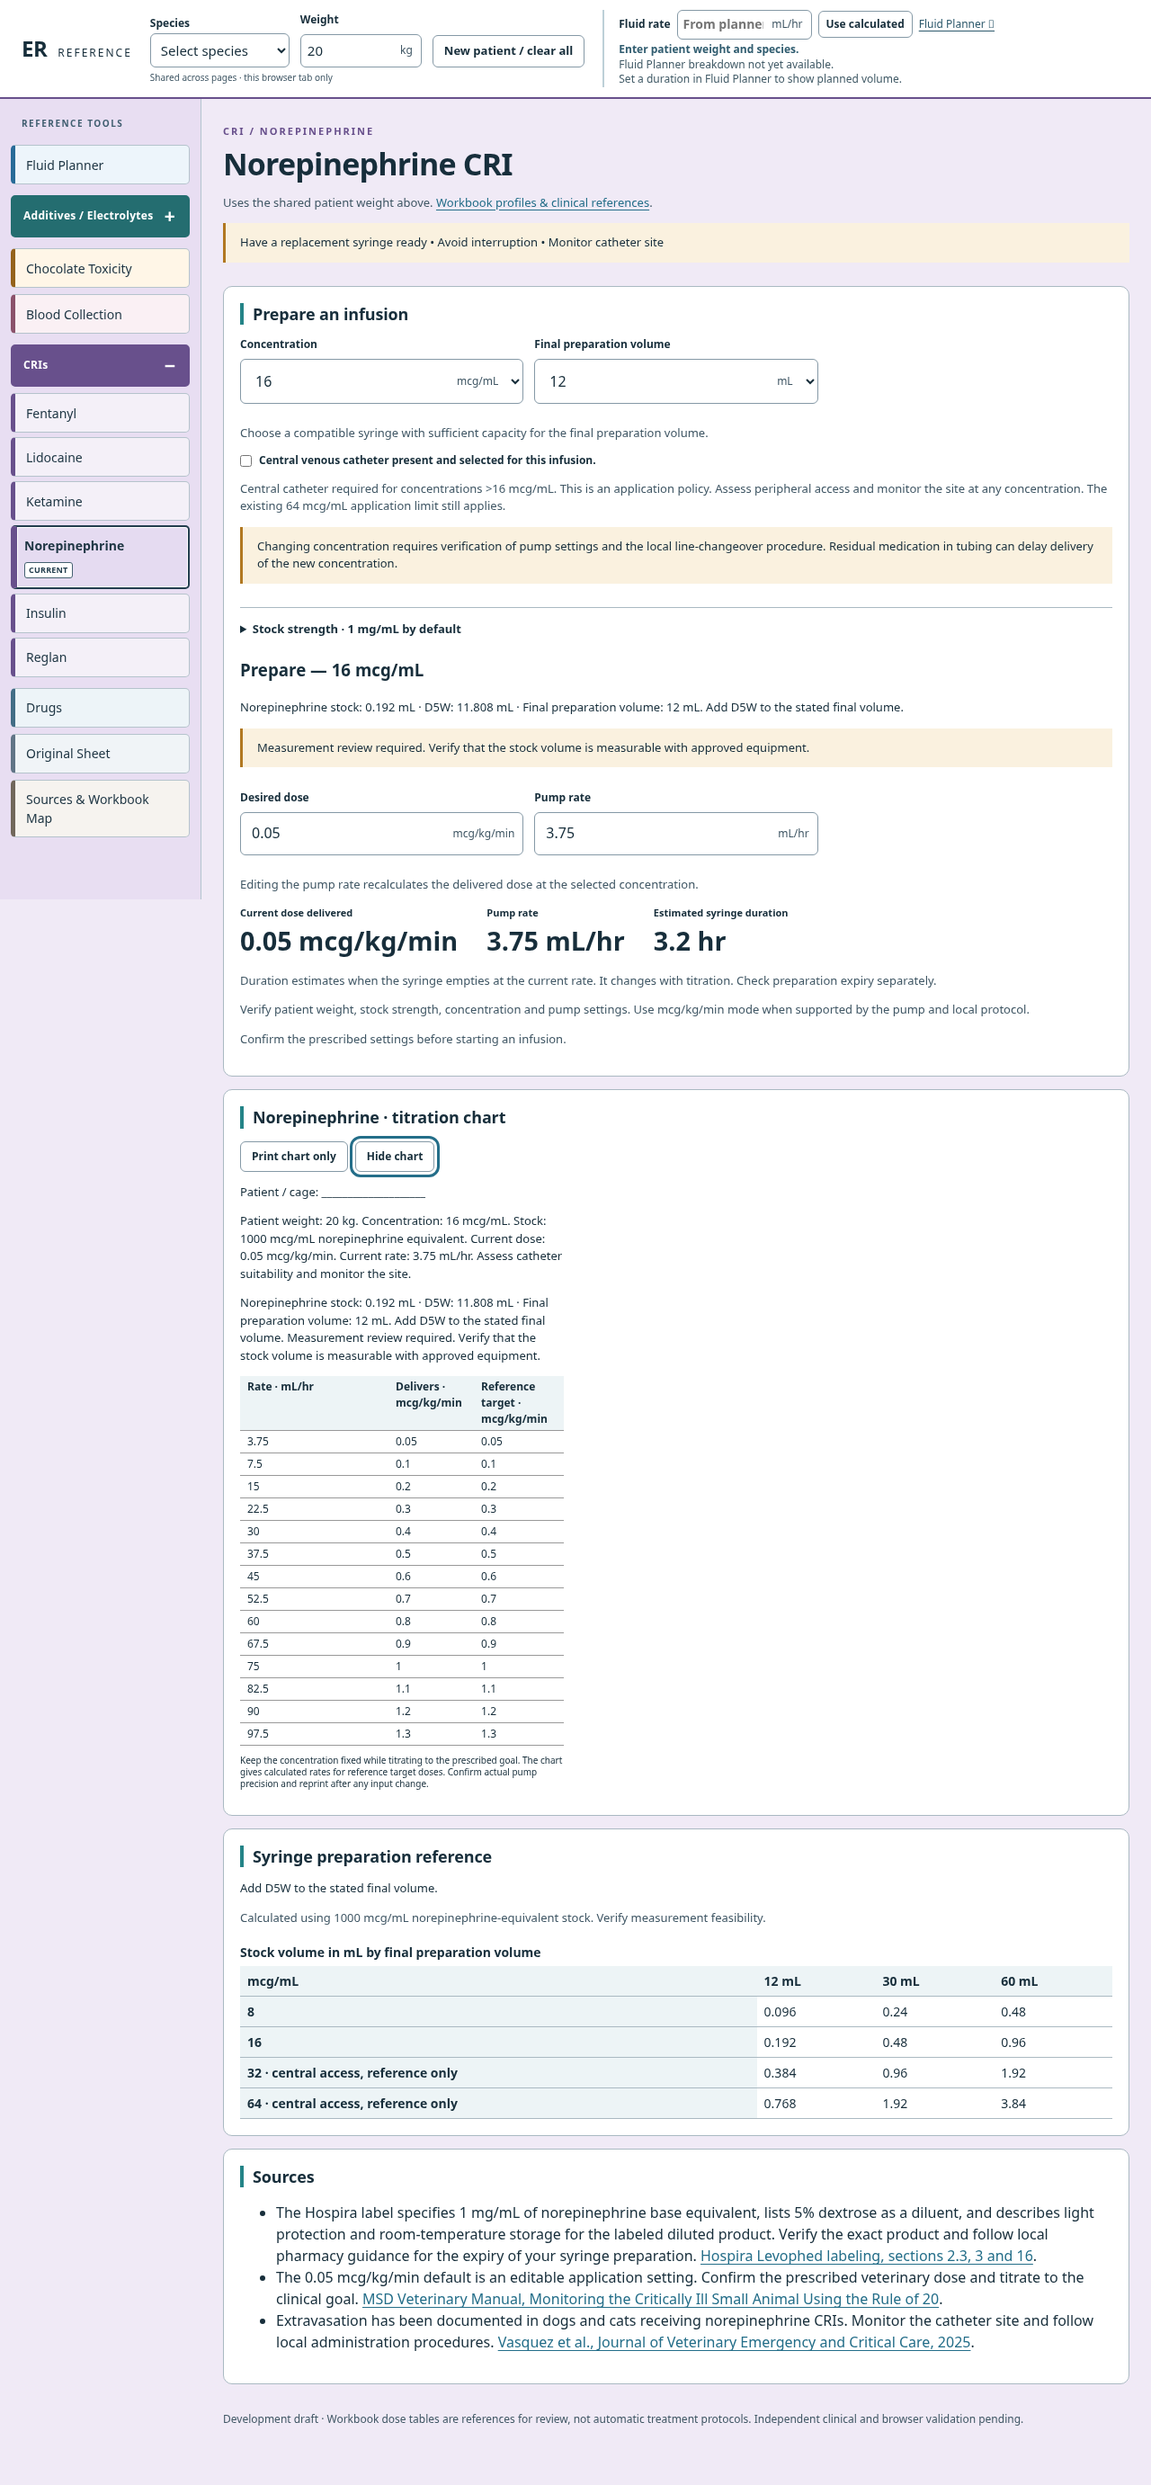
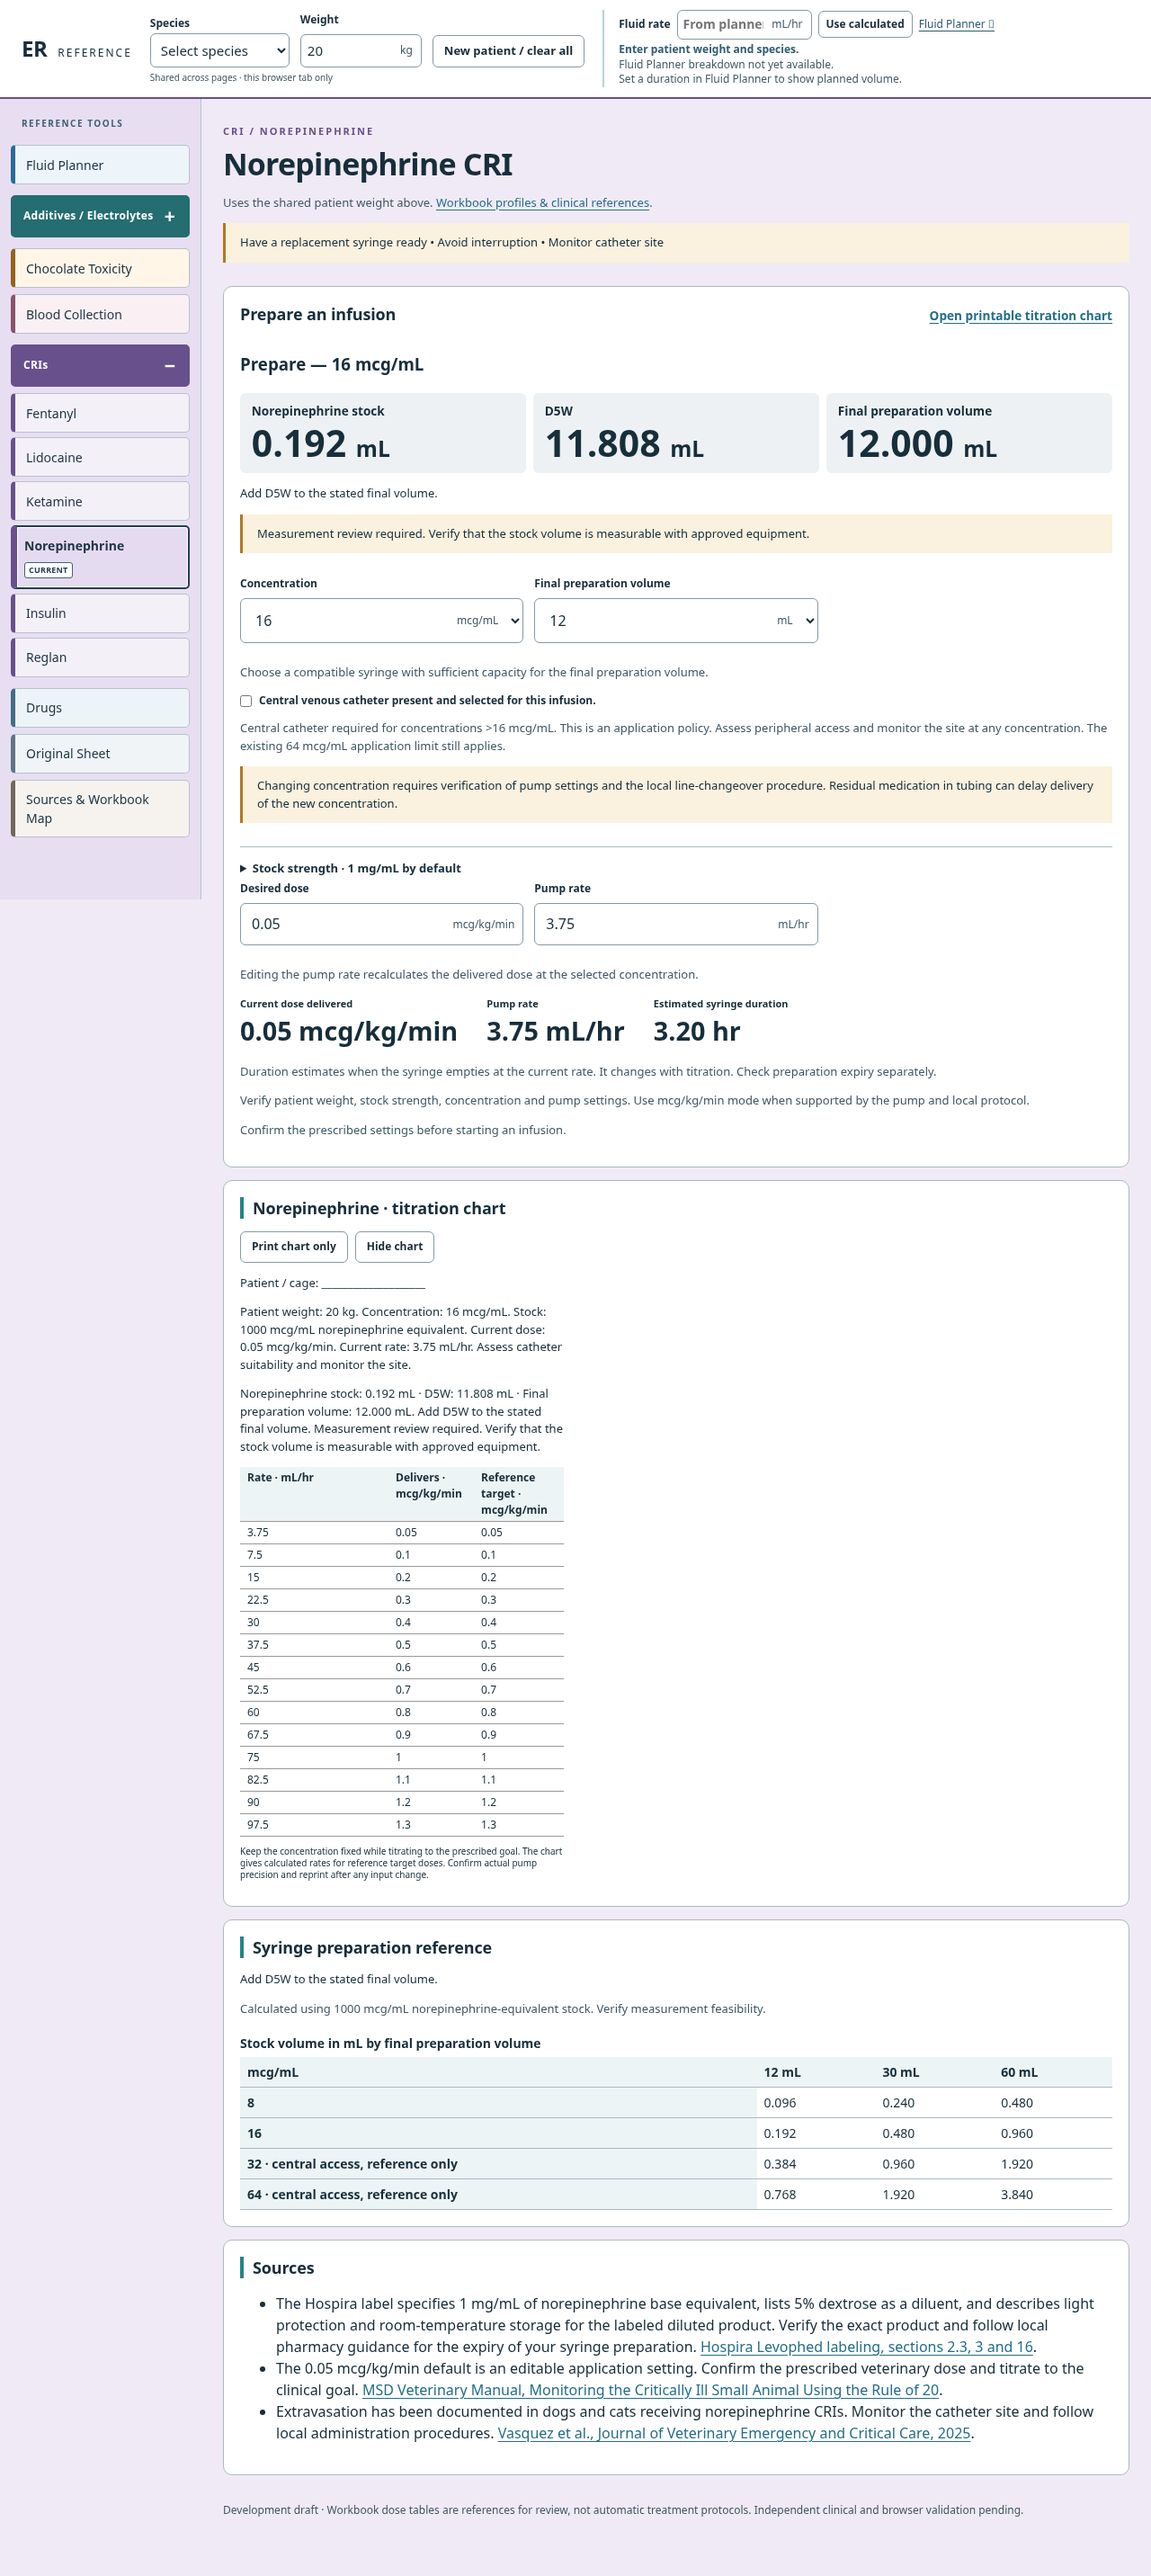
Make norepinephrine preparation amounts easier to scan

Changed region(s): [[0.0, 0.0, 0.9688, 0.9649], [0.5312, 0.0, 0.7812, 0.0311], [0.8438, 0.0934, 0.875, 0.1245]]

diff --git a/dist/norepi-preparation.js b/dist/norepi-preparation.js
@@ -13,6 +13,7 @@
   const centralMessage = 'Central catheter required for concentrations >16 mcg/mL.';
   const unit = 'mcg/kg/min';
   const show = value => Number(value.toPrecision(12)).toString();
+  const amount = value => value < 0.0005 ? value.toExponential(3) : value.toFixed(3);
   const positive = value => Number.isFinite(value) && value > 0;
   let centralConfirmed = false;
   let manualPump = false;
@@ -23,13 +24,15 @@
     if (concentration >= stock) throw Error('Prepared concentration must be below the verified stock strength.');
     const { drug, diluent } = CriCalc.mix(stock, concentration, volume);
     CriCalc.positive(drug, diluent);
-    // Keep rounding from increasing the stock fraction when users make up to final volume.
-    const displayedDrug = Number(show(drug));
-    const stockVolume = displayedDrug > drug
-      ? show(displayedDrug - 10 ** (Math.floor(Math.log10(displayedDrug)) - 11))
-      : show(drug);
-    CriCalc.positive(Number(stockVolume));
-    return { stockVolume, diluent: show(diluent), review: drug < 1 || stockVolume !== String(drug) };
+    const roundedStock = amount(drug);
+    // Preserve the access ceiling even when a three-place display would exceed it.
+    const limit = concentration <= peripheryLimit ? peripheryLimit : maximum;
+    const roundedAboveLimit = Number(roundedStock) * stock / volume > limit * (1 + Number.EPSILON * 4);
+    const roundingChangesAmount = Math.abs(Number(roundedStock) / drug - 1) > 0.01;
+    const extraPrecision = roundedAboveLimit || roundingChangesAmount;
+    const stockVolume = extraPrecision ? show(drug) : roundedStock;
+    return { stockVolume, diluent: amount(diluent), finalVolume: amount(volume),
+      review: drug < 1 || extraPrecision || Number(stockVolume) !== drug };
   }
 
   function reference(stock, central) {
@@ -56,6 +59,7 @@
     $('norepiTitration').setAttribute('data-print-ready', String(available));
     $('printNorepiChart').disabled = !available;
     $('previewNorepiChart').disabled = !available;
+    $('norepiChartShortcut').textContent = available ? 'Open printable titration chart' : 'Titration chart availability';
     $('norepiChartStatus').hidden = available;
     if (!available) {
       $('norepiChartMeta').textContent = '';
@@ -104,10 +108,14 @@
       if (!positive(stock)) throw Error('Enter a positive verified stock strength.');
       if (!positive(volume)) throw Error('Enter a positive final preparation volume.');
       const mix = preparation(stock, concentration, volume);
-      const instructions = `Norepinephrine stock: ${mix.stockVolume} mL · D5W: ${mix.diluent} mL · Final preparation volume: ${volume} mL.`;
+      const instructions = `Norepinephrine stock: ${mix.stockVolume} mL · D5W: ${mix.diluent} mL · Final preparation volume: ${mix.finalVolume} mL.`;
       const measurement = mix.review ? 'Measurement review required. Verify that the stock volume is measurable with approved equipment.' : '';
       $('prepResult').innerHTML = `<h3>Prepare — ${concentration} mcg/mL</h3>
-        <p>${instructions} Add D5W to the stated final volume.</p>${measurement ? `<p class="notice">${measurement}</p>` : ''}`;
+        <dl class="norepi-amounts">
+          <div><dt>Norepinephrine stock</dt><dd>${mix.stockVolume} <span>mL</span></dd></div>
+          <div><dt>D5W</dt><dd>${mix.diluent} <span>mL</span></dd></div>
+          <div><dt>Final preparation volume</dt><dd>${mix.finalVolume} <span>mL</span></dd></div>
+        </dl><p>Add D5W to the stated final volume.</p>${measurement ? `<p class="notice">${measurement}</p>` : ''}`;
 
       const weight = Number($('weight').value);
       if (!positive(weight)) throw Error('Enter a valid shared patient weight to calculate a pump rate.');
@@ -120,7 +128,9 @@
       const delivered = pump * concentration / 60 / weight;
       const hours = volume / pump;
       CriCalc.positive(delivered, hours);
-      const duration = hours >= 1 ? `${show(hours)} hr` : `${show(hours * 60)} min`;
+      const minutes = hours * 60;
+      const duration = hours >= 1 ? `${hours.toFixed(2)} hr`
+        : minutes < 0.005 ? '&lt;0.01 min' : `${minutes.toFixed(2)} min`;
       const access = concentration > peripheryLimit
         ? 'Central catheter required and confirmed.' : 'Assess catheter suitability and monitor the site.';
       const doses = [...new Set([...CRI_DATA.norepinephrine.rates, desiredDose])].sort((a, b) => a - b);
@@ -186,6 +196,9 @@
     stockField.readOnly = !stockField.readOnly;
     $('criLock').textContent = stockField.readOnly ? 'Edit stock strength' : 'Lock stock strength';
     if (!stockField.readOnly) stockField.focus();
+  };
+  $('norepiChartShortcut').onclick = () => {
+    if (!$('previewNorepiChart').disabled) setPreview(true);
   };
   $('previewNorepiChart').onclick = () => setPreview($('norepiChartPreview').hidden);
   $('printNorepiChart').onclick = () => {

diff --git a/dist/cri-norepinephrine.html b/dist/cri-norepinephrine.html
@@ -1,6 +1,10 @@
 <!doctype html><html lang="en"><head><meta charset="utf-8"><meta name="viewport" content="width=device-width,initial-scale=1"><title>Norepinephrine CRI · ER Reference</title><link rel="stylesheet" href="style.css"></head><body class="potassium-page" data-cri="norepinephrine"><header class="patient-header"><a class="brand" href="index.html">ER<span>REFERENCE</span></a><div class="master-patient" role="group" aria-label="Shared patient"><label>Species<select id="masterSpecies"><option value="">Select species</option><option value="dog">Dog</option><option value="cat">Cat</option></select></label><label>Weight · kg<input id="masterWeight" type="number" inputmode="decimal" min="0.001" step="any" placeholder="Patient kg"></label><button type="button" id="clearPatient">New patient / clear all</button><small id="patientSessionNote">Shared patient · this browser tab only</small></div><section class="shared-fluid" aria-label="Shared fluid plan"><div class="shared-fluid-top"><label for="sharedFluidRate">Fluid rate <span>mL/hr</span></label><input id="sharedFluidRate" type="number" min=".001" step="any" placeholder="From planner / enter rate" aria-describedby="sharedFluidStatus"><button type="button" id="useCalculatedFluid">Use calculated</button><a href="index.html">Fluid Planner ↗</a></div><div id="sharedFluidStatus" class="shared-fluid-status" role="status"></div><div id="sharedFluidBreakdown" class="shared-fluid-breakdown"></div><div id="sharedFluidAmounts" class="shared-fluid-amounts"></div></section></header><a class="skip-link" href="#main-content">Skip to content</a><aside class="sidebar" aria-label="Reference navigation"><details id="sectionMenu" open><summary>Sections <span>— Norepinephrine CRI</span></summary><div class="sidebar-title">REFERENCE TOOLS</div><nav aria-label="Reference sections"><a href="index.html">Fluid Planner</a><details class="nav-group"><summary>Additives / Electrolytes</summary><div class="nav-children"><a href="potassium.html">Potassium</a><a href="magnesium.html">Magnesium</a><a href="phosphate.html">Phosphate</a><a href="sodium.html">Sodium</a><a href="dextrose.html">Dextrose</a></div></details><a href="chocolate.html">Chocolate Toxicity</a><a href="blood-collection.html">Blood Collection</a><details class="nav-group cri-nav" open><summary>CRIs</summary><div class="nav-children"><a href="cri-fentanyl.html">Fentanyl</a><a href="cri-lidocaine.html"><span class="lidocaine-nav-label">Lidocaine</span><span class="cat-restriction" hidden>Unavailable for cats</span></a><a href="cri-ketamine.html">Ketamine</a><a href="cri-norepinephrine.html" aria-current="page">Norepinephrine<span class="current-page">Current</span></a><a href="cri-insulin.html">Insulin</a><a href="cri-reglan.html">Reglan</a></div></details><a href="drugs.html">Drugs</a><a href="original-sheet.html">Original Sheet</a><a href="sources.html">Sources & Workbook Map</a></nav></details></aside><main id="main-content" class="cri-page"><div class="eyebrow">CRI / NOREPINEPHRINE</div><h1>Norepinephrine CRI</h1><div hidden><input id="weight" type="number"><select id="species"><option value=""></option><option>Dog</option><option>Cat</option></select></div><p class="help">Uses the shared patient weight above. <a href="sources.html#cri-source">Workbook profiles & clinical references</a>.</p><p class="notice">Have a replacement syringe ready • Avoid interruption • Monitor catheter site</p>
 <section class="panel" id="norepiPreparation">
+<div class="norepi-prepare-heading">
 <h2>Prepare an infusion</h2>
+<a id="norepiChartShortcut" href="#norepiTitration">Titration chart availability</a>
+</div>
+<div id="prepResult" aria-live="polite"></div>
 <div class="cri-controls">
 <label>Concentration · mcg/mL
 <select id="norepiConcentrationPreset" aria-describedby="norepiAccessHelp">
@@ -23,7 +27,6 @@
 <p class="help">Verify the vial label. Enter norepinephrine equivalent strength in mcg/mL.</p>
 <label>Stock · mcg/mL norepinephrine equivalent <input id="criStock" type="number" min="0" step="any" value="1000" readonly autocomplete="off"></label>
 <button type="button" id="criLock">Edit stock strength</button></details>
-<div id="prepResult" aria-live="polite"></div>
 <div class="cri-controls">
 <label>Desired dose · mcg/kg/min <input id="criDose" type="number" min="0" step="any" value="0.05"></label>
 <label>Pump rate · mL/hr <input id="norepiPump" type="number" min="0" step="any" disabled autocomplete="off" aria-describedby="norepiPumpHelp"></label>

diff --git a/scripts/norepi-preparation.html b/scripts/norepi-preparation.html
@@ -1,6 +1,10 @@
 <p class="notice">Have a replacement syringe ready • Avoid interruption • Monitor catheter site</p>
 <section class="panel" id="norepiPreparation">
+<div class="norepi-prepare-heading">
 <h2>Prepare an infusion</h2>
+<a id="norepiChartShortcut" href="#norepiTitration">Titration chart availability</a>
+</div>
+<div id="prepResult" aria-live="polite"></div>
 <div class="cri-controls">
 <label>Concentration · mcg/mL
 <select id="norepiConcentrationPreset" aria-describedby="norepiAccessHelp">
@@ -23,7 +27,6 @@
 <p class="help">Verify the vial label. Enter norepinephrine equivalent strength in mcg/mL.</p>
 <label>Stock · mcg/mL norepinephrine equivalent <input id="criStock" type="number" min="0" step="any" value="1000" readonly autocomplete="off"></label>
 <button type="button" id="criLock">Edit stock strength</button></details>
-<div id="prepResult" aria-live="polite"></div>
 <div class="cri-controls">
 <label>Desired dose · mcg/kg/min <input id="criDose" type="number" min="0" step="any" value="0.05"></label>
 <label>Pump rate · mL/hr <input id="norepiPump" type="number" min="0" step="any" disabled autocomplete="off" aria-describedby="norepiPumpHelp"></label>

diff --git a/dist/style.css b/dist/style.css
@@ -529,3 +529,13 @@ body.blood-compact{background:#f4ecef}.blood-compact .blood-results .metric{bord
 @media print{
  body[data-cri="norepinephrine"] main>#norepiTitration:not([data-print-ready="true"]) .chart-preview{display:none!important}
 }
+
+.norepi-prepare-heading{display:flex;align-items:baseline;justify-content:space-between;flex-wrap:wrap;gap:.25rem 1rem}
+#norepiChartShortcut{font-size:.85rem;font-weight:700}
+#norepiTitration{scroll-margin-top:calc(var(--patient-header-height,110px) + 16px)}
+.norepi-amounts{display:grid;grid-template-columns:repeat(3,minmax(0,1fr));gap:.5rem;margin:.5rem 0}
+.norepi-amounts div{padding:.65rem .8rem;background:var(--tone-eef1f4);border-radius:6px;min-width:0}
+.norepi-amounts dt{font-size:.85rem;font-weight:700}
+.norepi-amounts dd{margin:.1rem 0 0;font-size:clamp(1.65rem,3.2vw,2.65rem);font-weight:800;line-height:1.15;overflow-wrap:anywhere;font-variant-numeric:tabular-nums}
+.norepi-amounts dd span{font-size:.6em;white-space:nowrap}
+@media(max-width:580px){.norepi-amounts{grid-template-columns:1fr}.norepi-amounts div{display:flex;align-items:baseline;justify-content:space-between;gap:.6rem}}
